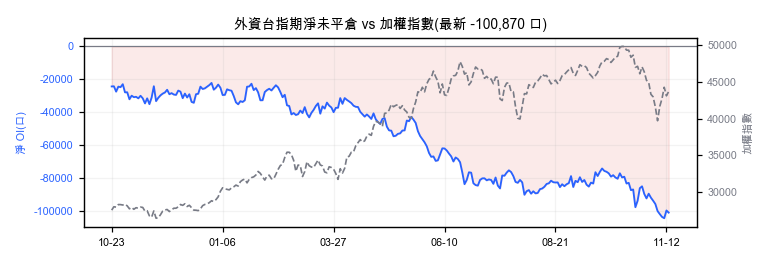
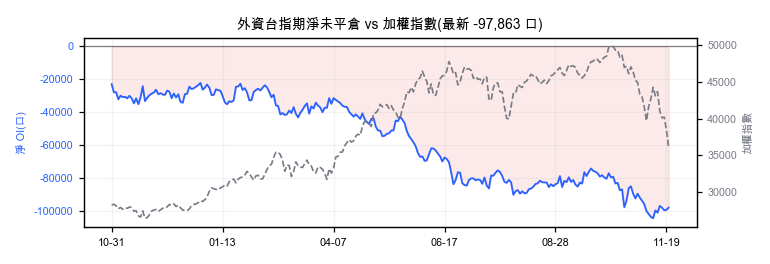
weekly 2026-11-21 情緒週報更新

diff --git a/docs/weekly_2026-11-21.html b/docs/weekly_2026-11-21.html
@@ -1,0 +1,56 @@
+<!DOCTYPE html>
+<html lang="zh-Hant">
+<head>
+  <meta charset="UTF-8">
+  <meta name="viewport" content="width=device-width, initial-scale=1.0">
+  <title>週報 2026-11-21 — 情緒面 + 籌碼</title>
+  <script>try{document.documentElement.dataset.theme=localStorage.getItem('theme')||'dark';}catch(e){document.documentElement.dataset.theme='dark';}</script>
+  <link rel="stylesheet" href="assets/tokens.css?v=b28a42eb">
+  <link rel="stylesheet" href="assets/style_v2.css?v=b28a42eb">
+  <script src="assets/theme.js?v=b28a42eb" defer></script>
+</head>
+<body>
+<header class="page-header">
+  <div class="container">
+    <nav class="page-nav">
+      <a href="index.html">← 回首頁</a>
+      <a href="index_v2.html">📈 儀表板</a>
+      <a href="watchlist_v2.html">📋 Watchlist</a>
+      <a href="tags.html">🔥 主題熱度</a>
+      <span class="page-nav-current">📅 週報</span>
+      <a href="macro_dashboard.html">🌐 宏觀</a>
+    </nav>
+    <h1>📅 每週市場情緒週報</h1>
+    <div class="meta">資料日期 <strong>2026-11-21</strong> ｜ 情緒面 NAAIM + VIX（AAII 已停用）｜ 產出時間 2026-11-21 09:00</div>
+  </div>
+</header>
+<main class="container wk-narrow">
+<div class="wk-errors">⚠ 部分數據源失敗:naaim: NAAIM 頁找不到 USE_Data xlsx 連結(頁面可能改版)</div>
+  <section class="section">
+    <h2>🚨 本週警報</h2>
+    <ul class="wk-alerts"><li>🔴 VIX 35.89 &gt; 25:市場恐慌升溫</li></ul>
+  </section>
+  <section class="section">
+    <h2>😱 情緒面</h2>
+    <div class="wk-cards"><div class="wk-card"><div class="wk-card-label">NAAIM 機構曝險</div><div class="wk-card-val" style="">N/A</div><div class="wk-card-sub">最新 </div></div><div class="wk-card"><div class="wk-card-label">VIX 波動率</div><div class="wk-card-val" style="">35.89</div><div class="wk-card-sub">恐慌指標(替代恐慌貪婪)</div></div></div>
+    
+  </section>
+  <section class="section">
+    <h2>🛒 消費信心(XLY/XLP)</h2>
+    <div class="wk-cards"><div class="wk-card"><div class="wk-card-label">XLY/XLP 比值</div><div class="wk-card-val" style="">1.2896</div><div class="wk-card-sub">偏空</div></div></div>
+    <img class="wk-chart" src="assets/weekly/xly_xlp.png" alt="XLY/XLP 比值">
+  </section>
+  <section class="section">
+    <h2>💰 週融資 + 大盤回顧</h2>
+    <div class="wk-cards"><div class="wk-card"><div class="wk-card-label">市場融資餘額(億元)</div><div class="wk-card-val" style="color:var(--color-down)">5,680.8</div><div class="wk-card-sub">週增減 -20.32%</div></div><div class="wk-card"><div class="wk-card-label">加權指數(週)</div><div class="wk-card-val" style="color:var(--color-down)">38,426.89</div><div class="wk-card-sub">本週 -10.83%</div></div></div>
+    <img class="wk-chart" src="assets/weekly/margin.png" alt="市場融資餘額趨勢(億元)">
+  </section>
+  <section class="section">
+    <h2>🏛 機構訊號區</h2>
+    <h3>💳 信用與流動性</h3><figure class="wk-sig"><img class="wk-chart" src="assets/weekly/sig_hy_oas.png" alt="HY OAS 高收益債利差"><figcaption class="wk-src">來源:FRED BAMLH0A0HYM2(ICE BofA US High Yield OAS)</figcaption></figure><figure class="wk-sig"><img class="wk-chart" src="assets/weekly/sig_t10y2y.png" alt="2s10s 利差"><figcaption class="wk-src">來源:FRED T10Y2Y(10 年期減 2 年期公債利差)</figcaption></figure><h3>🧭 市場內部</h3><figure class="wk-sig"><img class="wk-chart" src="assets/weekly/sig_breadth.png" alt="台股寬度"><figcaption class="wk-src">來源:kline.db 自算(watchlist 台股 106 檔)</figcaption></figure><figure class="wk-sig"><img class="wk-chart" src="assets/weekly/sig_foreign_oi.png" alt="外資台指期淨 OI vs 加權指數"><figcaption class="wk-src">來源:期交所三大法人期貨未平倉(外資)+ TWSE FMTQIK</figcaption></figure><h3>😱 情緒</h3><figure class="wk-sig"><img class="wk-chart" src="assets/weekly/sig_vix_ratio.png" alt="VIX/VIX3M 比值"><figcaption class="wk-src">來源:CBOE VIX / VIX3M(yfinance)</figcaption></figure><h3>🏭 景氣</h3><figure class="wk-sig"><img class="wk-chart" src="assets/weekly/sig_sahm.png" alt="Sahm Rule"><figcaption class="wk-src">來源:FRED SAHMREALTIME(Sahm Rule 即時失業率指標)</figcaption></figure><figure class="wk-sig"><img class="wk-chart" src="assets/weekly/sig_light.png" alt="景氣對策信號"><figcaption class="wk-src">來源:國發會景氣對策信號</figcaption></figure>
+  </section>
+
+  <p class="wk-src">NAAIM 來源:官方 USE_Data since Inception(? 週全量);US 指數/VIX/ETF:yfinance;融資:證交所 OpenAPI。</p>
+</main>
+</body>
+</html>

diff --git a/docs/weekly.html b/docs/weekly.html
@@ -3,7 +3,7 @@
 <head>
   <meta charset="UTF-8">
   <meta name="viewport" content="width=device-width, initial-scale=1.0">
-  <title>週報 2026-11-14 — 情緒面 + 籌碼</title>
+  <title>週報 2026-11-21 — 情緒面 + 籌碼</title>
   <script>try{document.documentElement.dataset.theme=localStorage.getItem('theme')||'dark';}catch(e){document.documentElement.dataset.theme='dark';}</script>
   <link rel="stylesheet" href="assets/tokens.css?v=b28a42eb">
   <link rel="stylesheet" href="assets/style_v2.css?v=b28a42eb">
@@ -21,28 +21,28 @@
       <a href="macro_dashboard.html">🌐 宏觀</a>
     </nav>
     <h1>📅 每週市場情緒週報</h1>
-    <div class="meta">資料日期 <strong>2026-11-14</strong> ｜ 情緒面 NAAIM + VIX（AAII 已停用）｜ 產出時間 2026-11-14 09:00</div>
+    <div class="meta">資料日期 <strong>2026-11-21</strong> ｜ 情緒面 NAAIM + VIX（AAII 已停用）｜ 產出時間 2026-11-21 09:00</div>
   </div>
 </header>
 <main class="container wk-narrow">
 <div class="wk-errors">⚠ 部分數據源失敗:naaim: NAAIM 頁找不到 USE_Data xlsx 連結(頁面可能改版)</div>
   <section class="section">
     <h2>🚨 本週警報</h2>
-    <ul class="wk-alerts"><li class="wk-noalert">本週無極端訊號</li></ul>
+    <ul class="wk-alerts"><li>🔴 VIX 35.89 &gt; 25:市場恐慌升溫</li></ul>
   </section>
   <section class="section">
     <h2>😱 情緒面</h2>
-    <div class="wk-cards"><div class="wk-card"><div class="wk-card-label">NAAIM 機構曝險</div><div class="wk-card-val" style="">N/A</div><div class="wk-card-sub">最新 </div></div><div class="wk-card"><div class="wk-card-label">VIX 波動率</div><div class="wk-card-val" style="">19.3</div><div class="wk-card-sub">恐慌指標(替代恐慌貪婪)</div></div></div>
+    <div class="wk-cards"><div class="wk-card"><div class="wk-card-label">NAAIM 機構曝險</div><div class="wk-card-val" style="">N/A</div><div class="wk-card-sub">最新 </div></div><div class="wk-card"><div class="wk-card-label">VIX 波動率</div><div class="wk-card-val" style="">35.89</div><div class="wk-card-sub">恐慌指標(替代恐慌貪婪)</div></div></div>
     
   </section>
   <section class="section">
     <h2>🛒 消費信心(XLY/XLP)</h2>
-    <div class="wk-cards"><div class="wk-card"><div class="wk-card-label">XLY/XLP 比值</div><div class="wk-card-val" style="">1.3229</div><div class="wk-card-sub">偏空</div></div></div>
+    <div class="wk-cards"><div class="wk-card"><div class="wk-card-label">XLY/XLP 比值</div><div class="wk-card-val" style="">1.2896</div><div class="wk-card-sub">偏空</div></div></div>
     <img class="wk-chart" src="assets/weekly/xly_xlp.png" alt="XLY/XLP 比值">
   </section>
   <section class="section">
     <h2>💰 週融資 + 大盤回顧</h2>
-    <div class="wk-cards"><div class="wk-card"><div class="wk-card-label">市場融資餘額(億元)</div><div class="wk-card-val" style="color:var(--color-down)">7,086.2</div><div class="wk-card-sub">週增減 -6.82%</div></div><div class="wk-card"><div class="wk-card-label">加權指數(週)</div><div class="wk-card-val" style="color:var(--color-up)">43,091.87</div><div class="wk-card-sub">本週 +3.65%</div></div></div>
+    <div class="wk-cards"><div class="wk-card"><div class="wk-card-label">市場融資餘額(億元)</div><div class="wk-card-val" style="color:var(--color-down)">5,680.8</div><div class="wk-card-sub">週增減 -20.32%</div></div><div class="wk-card"><div class="wk-card-label">加權指數(週)</div><div class="wk-card-val" style="color:var(--color-down)">38,426.89</div><div class="wk-card-sub">本週 -10.83%</div></div></div>
     <img class="wk-chart" src="assets/weekly/margin.png" alt="市場融資餘額趨勢(億元)">
   </section>
   <section class="section">
